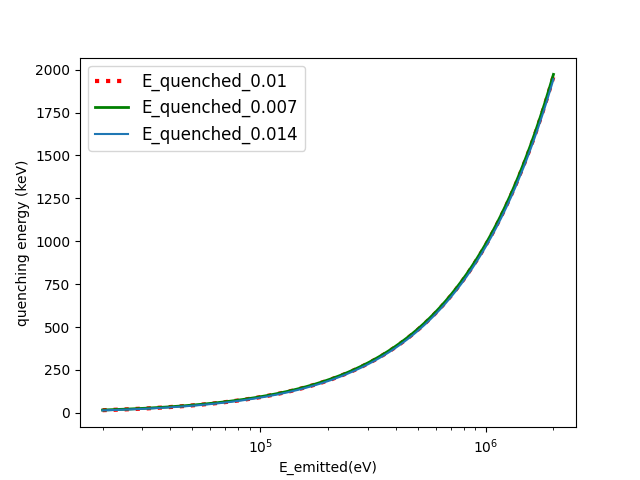
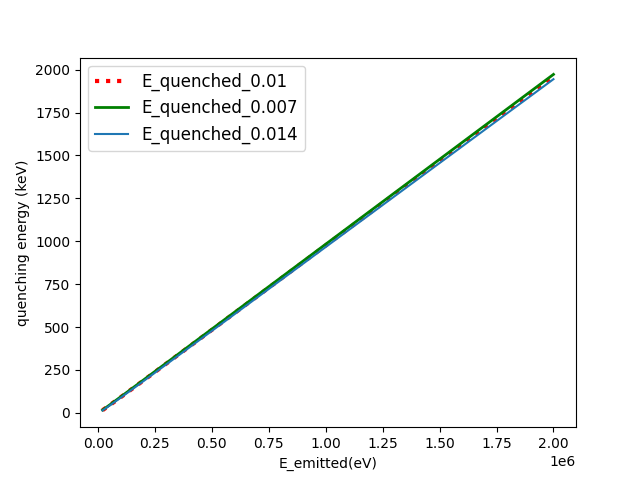
test

diff --git a/MCTDCRcode/TDCR_model_lib.py b/MCTDCRcode/TDCR_model_lib.py
@@ -320,7 +320,7 @@ for i in x:
 plt.plot(x,s2,label='E_quenched_0.01',ls=':',color='red',lw=3)
 plt.plot(x,s1,label='E_quenched_0.007',color='green',lw=2)
 plt.plot(x,s3,label='E_quenched_0.014')
-plt.xscale('log')
+#plt.xscale('log')
 #plt.yscale('log')
 plt.legend(fontsize=12,loc='best')
 plt.xlabel('E_emitted(eV)')
